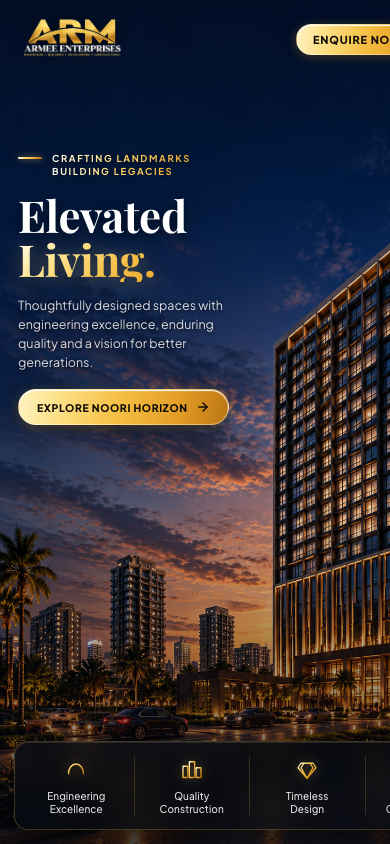
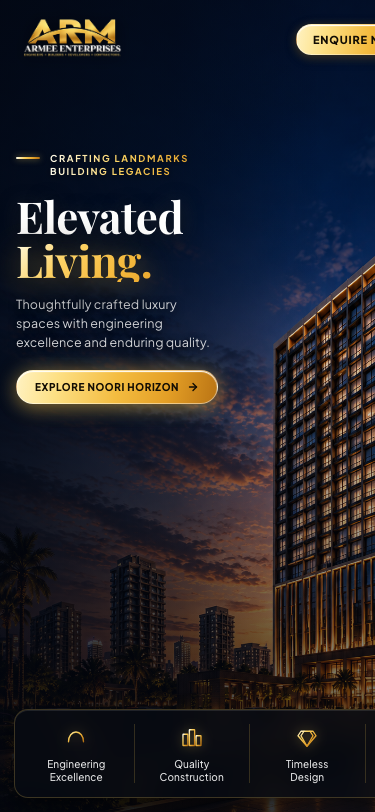
fds

diff --git a/style.css b/style.css
@@ -713,18 +713,24 @@ button {
   overflow: hidden;
 }
 
-/* Subtle, Natural Evening Overlay - No dark circular blotches/shadows */
+/* Subtle, Natural Evening Overlay - Crisp readability for left typography */
 .hero-mobile::before {
   content: '';
   position: absolute;
   inset: 0;
-  background: linear-gradient(
-    180deg, 
-    rgba(4, 7, 16, 0.55) 0%, 
-    rgba(4, 7, 16, 0.2) 30%, 
-    rgba(4, 7, 16, 0.1) 60%, 
-    rgba(4, 7, 16, 0.65) 100%
-  );
+  background: 
+    linear-gradient(
+      90deg, 
+      rgba(3, 6, 14, 0.72) 0%, 
+      rgba(3, 6, 14, 0.45) 35%, 
+      transparent 65%
+    ),
+    linear-gradient(
+      180deg, 
+      rgba(4, 7, 16, 0.55) 0%, 
+      rgba(4, 7, 16, 0.1) 40%, 
+      rgba(4, 7, 16, 0.7) 100%
+    );
   pointer-events: none;
   z-index: 1;
 }
@@ -856,38 +862,39 @@ button {
   white-space: nowrap;
 }
 
-/* Mobile Headline: Compact proportions to fit open left sky */
+/* Mobile Headline: Compact editorial luxury proportions */
 .mobile-headline {
   font-family: var(--font-serif);
   font-size: clamp(34px, 8.8vw, 44px);
-  line-height: 1.02;
+  line-height: 1.0;
   font-weight: 700;
-  letter-spacing: -0.3px;
-  margin: 0;
+  letter-spacing: -0.5px;
+  margin: 2px 0 0;
 }
 
 .mobile-headline-elevated {
   display: block;
   color: #FFFFFF;
-  text-shadow: 0 2px 12px rgba(0, 0, 0, 0.6);
+  text-shadow: 0 4px 20px rgba(0, 0, 0, 0.8), 0 0 25px rgba(255, 255, 255, 0.15);
 }
 
 .mobile-headline-living {
   display: block;
-  background: var(--gold-text-living);
+  background: linear-gradient(135deg, #FFFDE8 0%, #FDD265 25%, #F4B83C 50%, #E59F28 75%, #B87214 100%);
   -webkit-background-clip: text;
   -webkit-text-fill-color: transparent;
-  filter: drop-shadow(0 2px 10px rgba(244, 188, 64, 0.35));
+  filter: drop-shadow(0 3px 14px rgba(244, 188, 64, 0.45)) drop-shadow(0 4px 20px rgba(0, 0, 0, 0.8));
 }
 
-/* Mobile Description */
+/* Mobile Description - Refined, editorial concise styling */
 .mobile-desc {
-  font-size: 12px;
-  line-height: 1.5;
-  color: rgba(255, 255, 255, 0.85);
+  font-size: 12.5px;
+  line-height: 1.55;
+  color: rgba(255, 255, 255, 0.82);
   font-weight: 400;
-  max-width: 200px;
-  text-shadow: 0 1px 4px rgba(0, 0, 0, 0.7);
+  max-width: 205px;
+  text-shadow: 0 2px 8px rgba(0, 0, 0, 0.8);
+  letter-spacing: 0.15px;
 }
 
 /* Mobile Explore Button */
@@ -895,20 +902,20 @@ button {
   display: inline-flex;
   align-items: center;
   justify-content: center;
-  gap: 6px;
-  padding: 9px 15px;
+  gap: 8px;
+  padding: 10px 18px;
   border-radius: 999px;
   background: var(--gold-btn-gradient);
   color: #120D04;
   font-size: 10px;
   font-weight: 800;
-  letter-spacing: 0.4px;
+  letter-spacing: 0.6px;
   text-transform: uppercase;
   box-shadow: 
-    0 4px 14px rgba(0, 0, 0, 0.4),
-    0 2px 10px rgba(225, 171, 62, 0.35),
+    0 4px 18px rgba(225, 171, 62, 0.45),
+    0 0 25px rgba(252, 211, 97, 0.2),
     inset 0 1px 1px #FFFFFF;
-  border: 1px solid rgba(255, 255, 255, 0.4);
+  border: 1px solid rgba(255, 255, 255, 0.45);
   width: fit-content;
   max-width: 100%;
   margin-top: 4px;

diff --git a/index.html b/index.html
@@ -316,15 +316,15 @@
         <span class="mobile-headline-living">Living.</span>
       </h1>
 
-      <!-- Subtitle Description -->
+      <!-- Concise Luxury Subtitle -->
       <p class="mobile-desc">
-        Thoughtfully designed spaces with engineering excellence, enduring quality and a vision for better generations.
+        Thoughtfully crafted luxury spaces with engineering excellence and enduring quality.
       </p>
 
       <!-- Primary Explore Button -->
       <button class="mobile-explore-btn js-open-enquiry" type="button">
         <span>Explore Noori Horizon</span>
-        <svg width="14" height="14" viewBox="0 0 24 24" fill="none" stroke="currentColor" stroke-width="2.5" stroke-linecap="round" stroke-linejoin="round">
+        <svg width="12" height="12" viewBox="0 0 24 24" fill="none" stroke="#120D04" stroke-width="2.8" stroke-linecap="round" stroke-linejoin="round">
           <line x1="5" y1="12" x2="19" y2="12"></line>
           <polyline points="12 5 19 12 12 19"></polyline>
         </svg>
